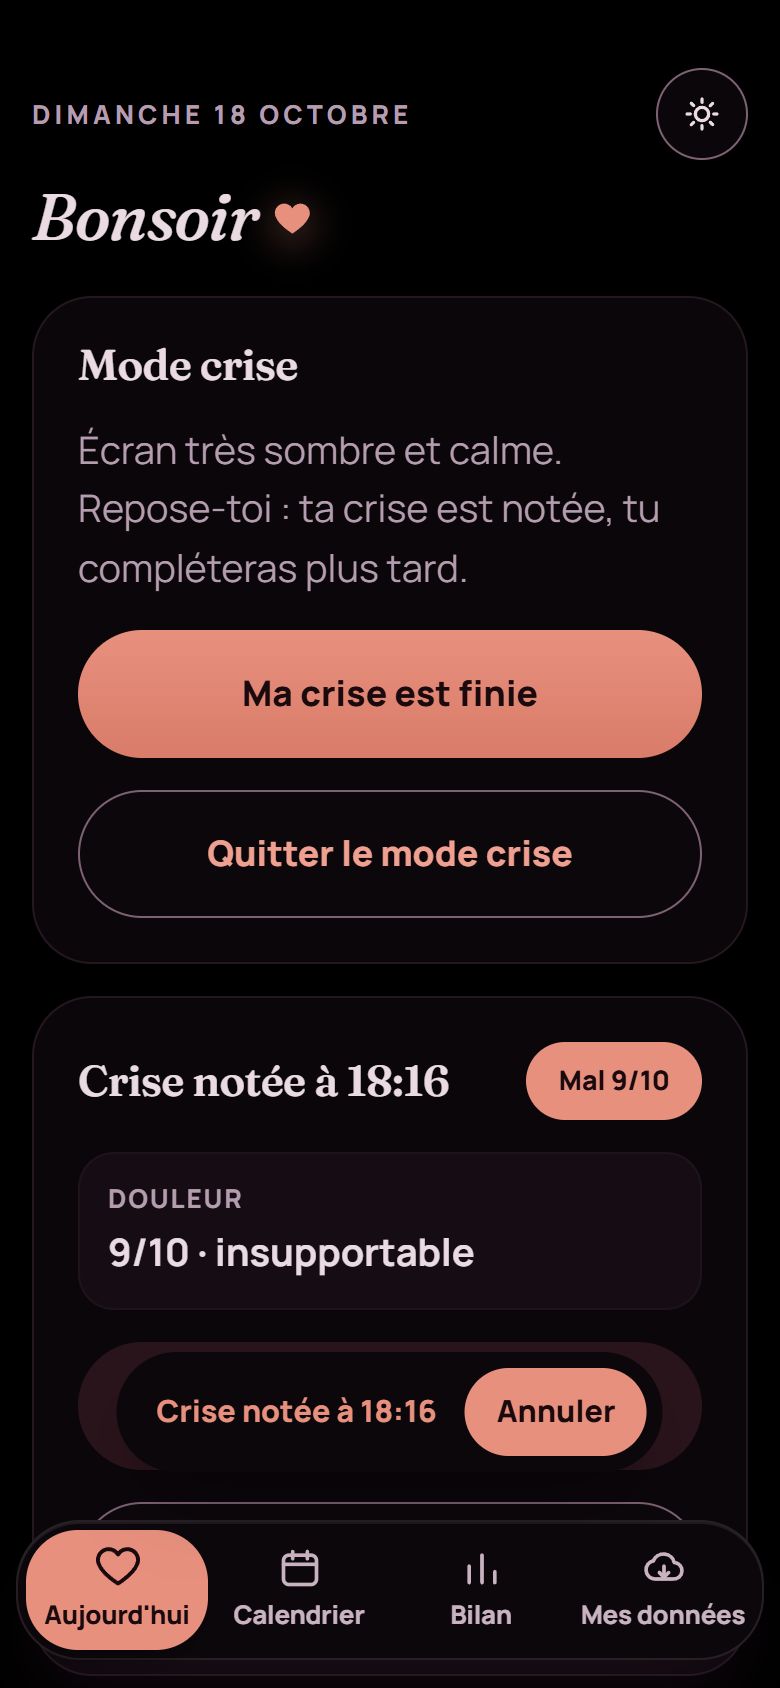
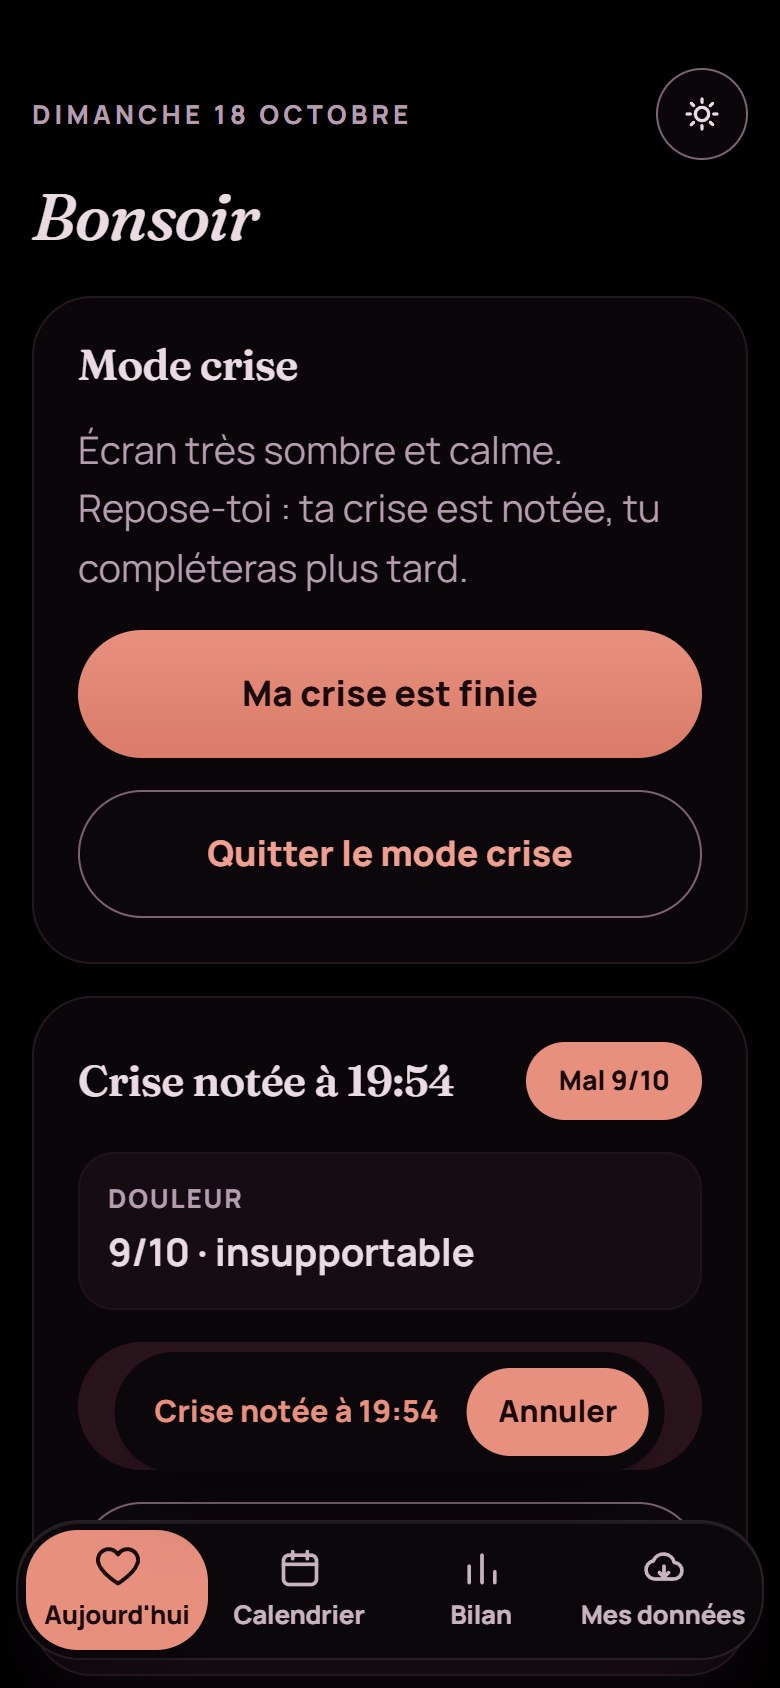
Version publique 2.2.3 : salutation sans cœur
La salutation de l'accueil s'affiche en texte simple (« Bonjour », « Bonsoir
Camille »), sans le cœur ; dessin, style et animation devenus inutiles retirés.
Captures d'écran du README mises à jour.

diff --git a/www/index.html b/www/index.html
@@ -108,9 +108,6 @@ main.wrap > :is(.sheet,.sheet-bg){animation-delay:0s!important}
 #v-home .hello{grid-row:2;grid-column:1/-1}
 .top .date{font-weight:800;color:var(--ink-2);font-size:.8125rem;text-transform:uppercase;letter-spacing:.16em;margin-bottom:6px}
 .hello{font-style:italic;font-weight:500;font-size:2.05rem;letter-spacing:-.02em}
-.hello .nw{white-space:nowrap}
-.hello svg{display:inline-block;width:.62em;height:.62em;margin-left:.22em;vertical-align:.02em;color:var(--accent-hi);filter:drop-shadow(0 4px 10px color-mix(in srgb,var(--accent-hi) 60%,transparent));animation:beat 1.4s ease-in-out .4s 1}
-@keyframes beat{0%,100%{transform:scale(1)}12%{transform:scale(1.2)}24%{transform:scale(1)}36%{transform:scale(1.1)}48%{transform:scale(1)}}
 .status{display:inline-flex;align-items:center;gap:7px;font-size:.78rem;font-weight:800;padding:7px 12px;border-radius:999px;background:var(--glass);border:1px solid var(--line);color:var(--ink-2);white-space:nowrap;-webkit-backdrop-filter:blur(12px) saturate(1.4);backdrop-filter:blur(12px) saturate(1.4)}
 .status i{width:7px;height:7px;border-radius:50%;background:var(--ink-2)}
 .status.cloud i{background:var(--ok);box-shadow:0 0 0 3px color-mix(in srgb,var(--ok) 22%,transparent)}
@@ -535,7 +532,7 @@ input.sr:focus-visible + label{outline:3px solid var(--lilac);outline-offset:3px
   nav.tabs .in::before{top:4px;bottom:4px;left:4px;width:calc((100% - 8px) / 4)}
   nav.tabs button{font-size:0;gap:0;min-height:52px}
   nav.tabs button svg{width:24px;height:24px}
-  .hello{font-size:1.5rem}.hello .nw{white-space:normal}
+  .hello{font-size:1.5rem}
   .duo,.quick,.stats3{grid-template-columns:1fr}
   .withtime{grid-template-columns:1fr}
   .tl li span:last-child{white-space:normal}
@@ -553,7 +550,6 @@ input.sr:focus-visible + label{outline:3px solid var(--lilac);outline-offset:3px
   <symbol id="i-lv1" viewBox="0 0 48 48"><clipPath id="hc1"><path d="M17 43v-6.5C12.5 34 10 29.5 10 24.5 10 15.9 16.6 9 25 9c7.6 0 13.5 5.6 13.5 12.6l3.1 5.7c.4.8-.1 1.7-1 1.7h-2.1v4.5c0 1.9-1.5 3.5-3.4 3.5h-4.6V43Z"/></clipPath><rect x="0" y="31.5" width="48" height="16.5" fill="currentColor" fill-opacity=".85" clip-path="url(#hc1)"/><path d="M17 43v-6.5C12.5 34 10 29.5 10 24.5 10 15.9 16.6 9 25 9c7.6 0 13.5 5.6 13.5 12.6l3.1 5.7c.4.8-.1 1.7-1 1.7h-2.1v4.5c0 1.9-1.5 3.5-3.4 3.5h-4.6V43" fill="none" stroke="currentColor" stroke-width="2.4" stroke-linecap="round" stroke-linejoin="round"/></symbol>
   <symbol id="i-lv2" viewBox="0 0 48 48"><clipPath id="hc2"><path d="M17 43v-6.5C12.5 34 10 29.5 10 24.5 10 15.9 16.6 9 25 9c7.6 0 13.5 5.6 13.5 12.6l3.1 5.7c.4.8-.1 1.7-1 1.7h-2.1v4.5c0 1.9-1.5 3.5-3.4 3.5h-4.6V43Z"/></clipPath><rect x="0" y="20.5" width="48" height="27.5" fill="currentColor" fill-opacity=".85" clip-path="url(#hc2)"/><path d="M17 43v-6.5C12.5 34 10 29.5 10 24.5 10 15.9 16.6 9 25 9c7.6 0 13.5 5.6 13.5 12.6l3.1 5.7c.4.8-.1 1.7-1 1.7h-2.1v4.5c0 1.9-1.5 3.5-3.4 3.5h-4.6V43" fill="none" stroke="currentColor" stroke-width="2.4" stroke-linecap="round" stroke-linejoin="round"/></symbol>
   <symbol id="i-lv3" viewBox="0 0 48 48"><clipPath id="hc3"><path d="M17 43v-6.5C12.5 34 10 29.5 10 24.5 10 15.9 16.6 9 25 9c7.6 0 13.5 5.6 13.5 12.6l3.1 5.7c.4.8-.1 1.7-1 1.7h-2.1v4.5c0 1.9-1.5 3.5-3.4 3.5h-4.6V43Z"/></clipPath><rect x="0" y="8" width="48" height="40" fill="currentColor" fill-opacity=".85" clip-path="url(#hc3)"/><path d="M17 43v-6.5C12.5 34 10 29.5 10 24.5 10 15.9 16.6 9 25 9c7.6 0 13.5 5.6 13.5 12.6l3.1 5.7c.4.8-.1 1.7-1 1.7h-2.1v4.5c0 1.9-1.5 3.5-3.4 3.5h-4.6V43" fill="none" stroke="currentColor" stroke-width="2.4" stroke-linecap="round" stroke-linejoin="round"/></symbol>
-  <symbol id="i-heart" viewBox="0 0 24 24"><path d="M12 21s-7.5-4.6-9.6-9.4A5.4 5.4 0 0 1 12 6.1a5.4 5.4 0 0 1 9.6 5.5C19.5 16.4 12 21 12 21z" fill="currentColor"/></symbol>
 </svg>
 <div class="wrap" id="app">
 
@@ -1183,9 +1179,7 @@ function renderHome(){
   $("homeDate").textContent=dayLong(t);
   document.body.dataset.sky=!e?"dawn":e.migraine?"storm":"calm";
   const first=(S.settings.name||"").trim().split(/\s+/)[0],hi=h>=18||h<5?"Bonsoir":"Bonjour";
-  // Le cœur est collé au dernier mot : il ne peut jamais partir seul à la ligne
-  const words=(first?`${hi} ${first}`:hi).split(" "),last=words.pop();
-  $("hello").innerHTML=`${words.length?esc(words.join(" "))+" ":""}<span class="nw">${esc(last)}<svg aria-hidden="true"><use href="#i-heart"/></svg></span>`;
+  $("hello").textContent=first?`${hi} ${first}`:hi;
   // Une seule entrée tant que la journée n'est pas notée ; ensuite la semaine suffit (un toucher sur le jour le rouvre). La carte du jour ne reste qu'après une crise rapide, à compléter
   $("askCard").hidden=!!e;$("todayCard").hidden=!(e&&e.quick);$("quickCard").hidden=!(e&&!e.migraine);
   if(e){

diff --git a/README.md b/README.md
@@ -9,7 +9,7 @@ Noter sa journée en quelques touchers, voir le bilan de la semaine et du mois, 
 
 **[Télécharger l'APK (dernière version)](https://github.com/loic31000/journal-migraines/releases/latest)**
 
-![Version](https://img.shields.io/badge/version-2.2.2-a92c49)
+![Version](https://img.shields.io/badge/version-2.2.3-a92c49)
 ![Android](https://img.shields.io/badge/Android-7.0%2B%20·%20cible%2014-3DDC84?logo=android&logoColor=white)
 ![Hors ligne](https://img.shields.io/badge/internet-aucune%20permission-7d4ccc)
 ![Compte](https://img.shields.io/badge/compte-aucun-7d4ccc)
@@ -252,6 +252,7 @@ Les tests ne remplacent pas un essai sur un vrai téléphone (affichage, menu de
 
 | Version | Code | Contenu |
 |---|---|---|
+| **2.2.3** | 9 | Salutation de l'accueil sans cœur, captures d'écran mises à jour. |
 | **2.2.2** | 8 | Version publique : licences des polices (OFL) jointes à l'APK, Android 7.0 minimum (la WebView d'Android 5 et 6 ne gère plus les couleurs de l'interface), lien de téléchargement dans le README. |
 | **2.2.1** | 7 | Correction : le détail d'un jour (et le questionnaire MIDAS) s'ouvre sans flash, le panneau glisse du bas en même temps que le fond s'assombrit. |
 | **2.2** | 6 | Sauvegarde automatique (copie à chaque note dans le dossier privé, incluse dans la sauvegarde Google du téléphone, notes retrouvées toutes seules au démarrage) et rappel de copie sur Drive chaque semaine. |
